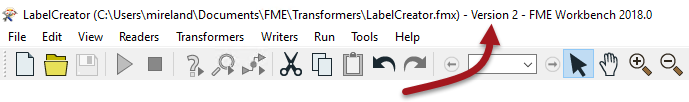
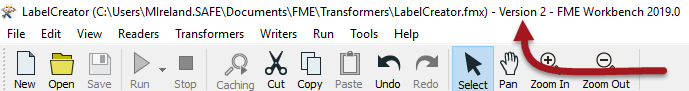
2019 Section 5.09 updates

diff --git a/DesktopAdvanced5CustomTransformers/5.09.CustomTransformerVersioning.md b/DesktopAdvanced5CustomTransformers/5.09.CustomTransformerVersioning.md
@@ -1,30 +1,22 @@
 ## Custom Transformer Versioning
 
-FME includes functionality so that a linked custom transformer can exist as a number of versions. Each time a custom transformer definition is edited, a new version can be saved. 
+FME allows external file definitions of a custom transformer to exist as a number of versions. Each time a custom transformer definition is edited, a new version can be saved. 
 
 In that way, a single fmx file can contain multiple versions of the same custom transformer. 
 
----
-
-### Why use Versioning? ###
-
-One advantage of versioning a custom transformer is that you have a record of previous versions and therefore can revert to a previous one should the need arise. For example, maybe some recent edits were incorrect, and you need to switch back to the definition that existed before those edits were made. 
-
-However, a more significant advantage relates to FME releases and new functionality.
-
-For example, a custom transformer created in FME2017 and shared by many users could be updated to use new behavior in FME2018. If that custom transformer is versioned, then the 2017 version remains available to users who have yet to update to that version of FME; while users who have updated their FME can also update their custom transformer to take advantage of the new updates.
+Versioning allows the author of a custom transformer to revert to a previous definition, should the need arise. It also allows a separate definition to be created for each version of FME. The custom transformer remains backwards-compatible with older FME versions, but takes advantage of enhanced functionality in newer versions. 
 
 ---
 
 ### Creating a Versioned Custom Transformer ###
 
-When you open an unversioned custom transformer definition file and later attempt to save edits, a dialog opens asking what you wish to do:
+After editing an *unversioned* custom transformer, clicking the save button issues the following prompt:
 
 ![](./Images/Img5.041.CreateNewCTVersion.png) 
 
-The two versioning options are to *Overwrite* the existing version or to create a *New Version*. 
+The two versioning options are to **Overwrite** the existing version or to create a **New Version**. 
 
-Basically, you are being asked whether to implement versioning. Clicking New Version versions the transformer and saves the edits as version 2. Note that creating a new version does not create a separate fmx file; instead, it creates a separate version of the transformer within the same fmx file.
+Essentially, the prompt asks whether to activate versioning. Clicking New Version versions the transformer and saves the edits as version 2. Note that creating a new version does not create a separate fmx file; instead, it creates a separate version of the transformer within the same fmx file.
 
 The title bar in Workbench illustrates the version number of a custom transformer file:
 
@@ -36,23 +28,25 @@ If you choose Overwrite in the Save Transformer dialog, then the transformer rem
 
 ### Editing a Specific Transformer Version ###
 
-Whenever a versioned custom transformer is initially opened in Workbench, you are prompted as to which version you wish to edit, or whether you want to just start with a new version:
+Opening a *versioned* custom transformer in Workbench issues the following prompt:
 
 ![](./Images/Img5.043.CTEditingVersionChoice.png)
 
-This way you can:
+This prompt asks which version you wish to edit, or whether you want to just start with a new version. This way you can:
 
 - Create a new version to make edits to
 - Continue making edits to the existing version
 - Make edits on an older version (particularly useful when that version is tied to a particular FME release)
 
-It's important to be aware that you aren't creating a new version every time you click the Save button. A new version is created only when the dialog prompts you to "Create New Version". To forcibly create a new version you need to close and reopen the file, which causes the Select Transformer Version dialog to appear.
+It's important to be aware that this dialog is the only way to create a new version. Clicking the save button merely saves updates to the currently open version. To forcibly create a new version you need to close and reopen the file, causing the Select Transformer Version dialog to appear.
 
-Each version of a custom transformer has a record of which FME version with which it was last edited. You can choose to make edits to a transformer that was last edited in an older version of FME, but you will receive a warning message:
+### Transformer and FME Versions ###
+
+Each version of a custom transformer is associated with a particular FME version. You can choose to make edits to a transformer that was last edited in an older version of FME, but you will receive a warning message:
 
 ![](./Images/Img5.044.CTEditingVersionInNewerBuild.png)
 
-Here version 1 was created with FME2017, and the author is attempting to edit it in FME2018. Should they go ahead and do so, version 1 of the transformer will no longer be valid for use in FME2017.
+Here version 1 was created with FME 2018, and the author is attempting to edit it in FME 2019. Should they go ahead and do so, version 1 of the transformer will no longer be valid for use in FME 2018.
 
 ---
 
@@ -84,11 +78,11 @@ If the option to display transformer version is turned on (Tools &gt; FME Option
 
 ![](./Images/Img5.045.CTVersionSummaryAnnotation.png)
 
-When FME detects that a new version is available - i.e., the author has made edits and saved them as a new version - then an option appears on the context menu to allow an update to the new version:
+When FME detects that a new version is available (i.e., the author has made edits and saved them as a new version) and that this version is compatible with the FME version being used, then an option appears on the context menu to allow an update:
 
-![](./Images/Img5.046.CTNewVersionAvailable.png) <!-- ** Update Screenshot -->
+![](./Images/Img5.046.CTNewVersionAvailable.png) 
 
-Choosing to upgrade means the summary annotation would display the newest version number. 
+Choosing to upgrade means the transformer becomes linked to the latest version, and the summary annotation updated to reflect this. 
 
 ---
 
@@ -104,7 +98,7 @@ Choosing to upgrade means the summary annotation would display the newest versio
 <td style="border: 1px solid darkorange">
 <span style="font-family:serif; font-style:italic; font-size:larger">
 FME checks for new versions only when Workbench is first started. If Workbench is already open and you wish to check for a new custom transformer version, you can force FME to check by clicking the refresh button on the Transformer Gallery window: 
-<br><br><img src="./Images/Img5.047.TransGalleryRefresh.png"> <!-- ** Update screenshot -->
+<br><br><img src="./Images/Img5.047.TransGalleryRefresh.png"> 
 </span>
 </td>
 </tr>
